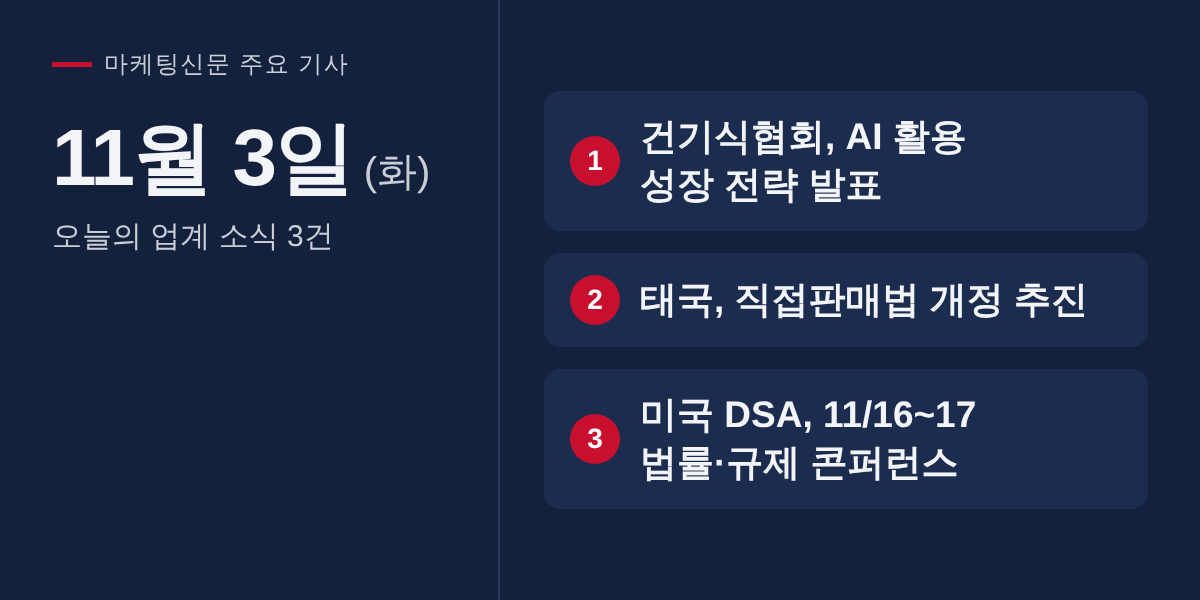
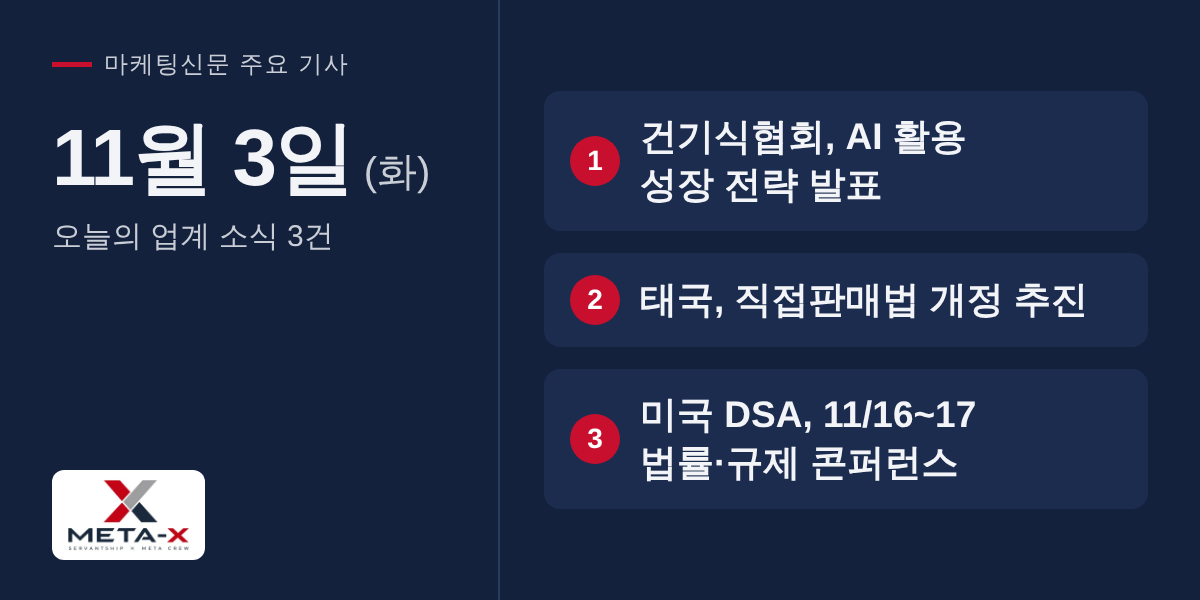
META-X 로고 추가(프렌드 지시)

Changed region(s): [[0.0308, 0.78, 0.185, 0.96]]

diff --git a/2026-11-03/index.html b/2026-11-03/index.html
@@ -29,7 +29,7 @@ p{margin:0;text-wrap:pretty}
 .note{font-size:.85rem;color:var(--muted)}
 </style></head><body><main>
 <header><div><div class="kicker">마케팅신문 주요 기사</div><h1>11월 3일 (화)</h1><div>오늘의 업계 소식 3건</div></div>
-</header>
[1 lines of base64/hex data omitted]
 <article class="card"><div class="top"><span class="n">1</span><h2>건기식협회, AI 활용 성장 전략 발표</h2></div><p>건강기능식품 세션에서 AI로 수요와 기술을 연결하고 수출 업무를 효율화하는 사례가 발표됐다.</p><a class="btn" href="https://www.mknews.kr/?mid=view&amp;no=45087" rel="noopener">원문 보기</a></article>
 <article class="card"><div class="top"><span class="n">2</span><h2>태국, 직접판매법 개정 추진</h2></div><p>청약철회 7일에서 14일로 연장, 소셜미디어 판매도 법 적용 대상으로 명시. 11월 27일까지 의견 수렴.</p><a class="btn" href="https://www.mknews.kr/?mid=view&amp;no=45095" rel="noopener">원문 보기</a></article>
 <article class="card"><div class="top"><span class="n">3</span><h2>미국 DSA, 11/16~17 법률·규제 콘퍼런스</h2></div><p>소득·제품 주장의 입증 자료, AI 홍보물의 책임 등을 논의한다.</p><a class="btn" href="https://www.mknews.kr/?mid=view&amp;no=45086" rel="noopener">원문 보기</a></article>
